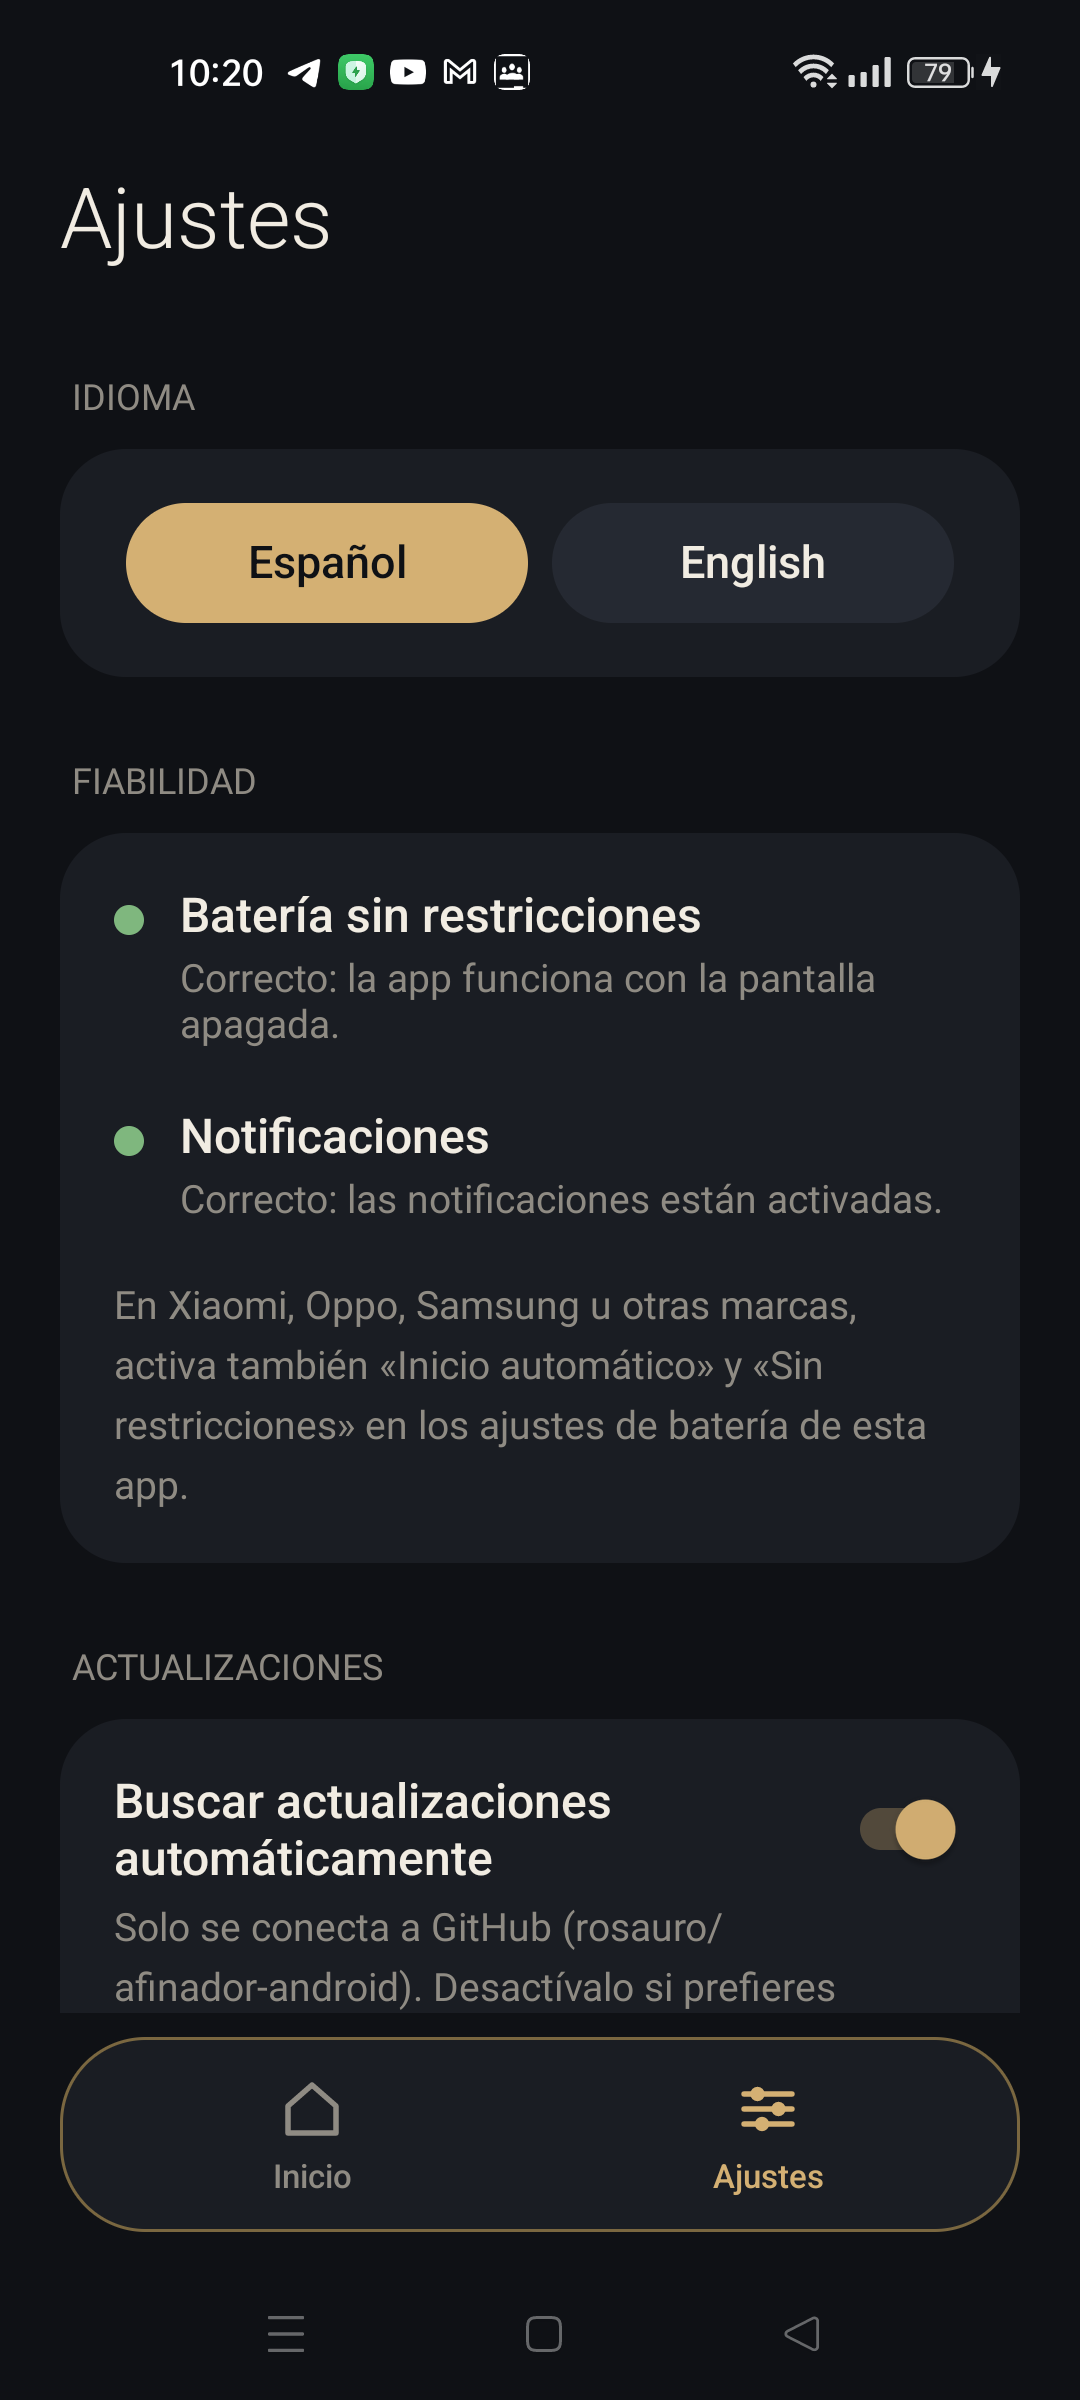
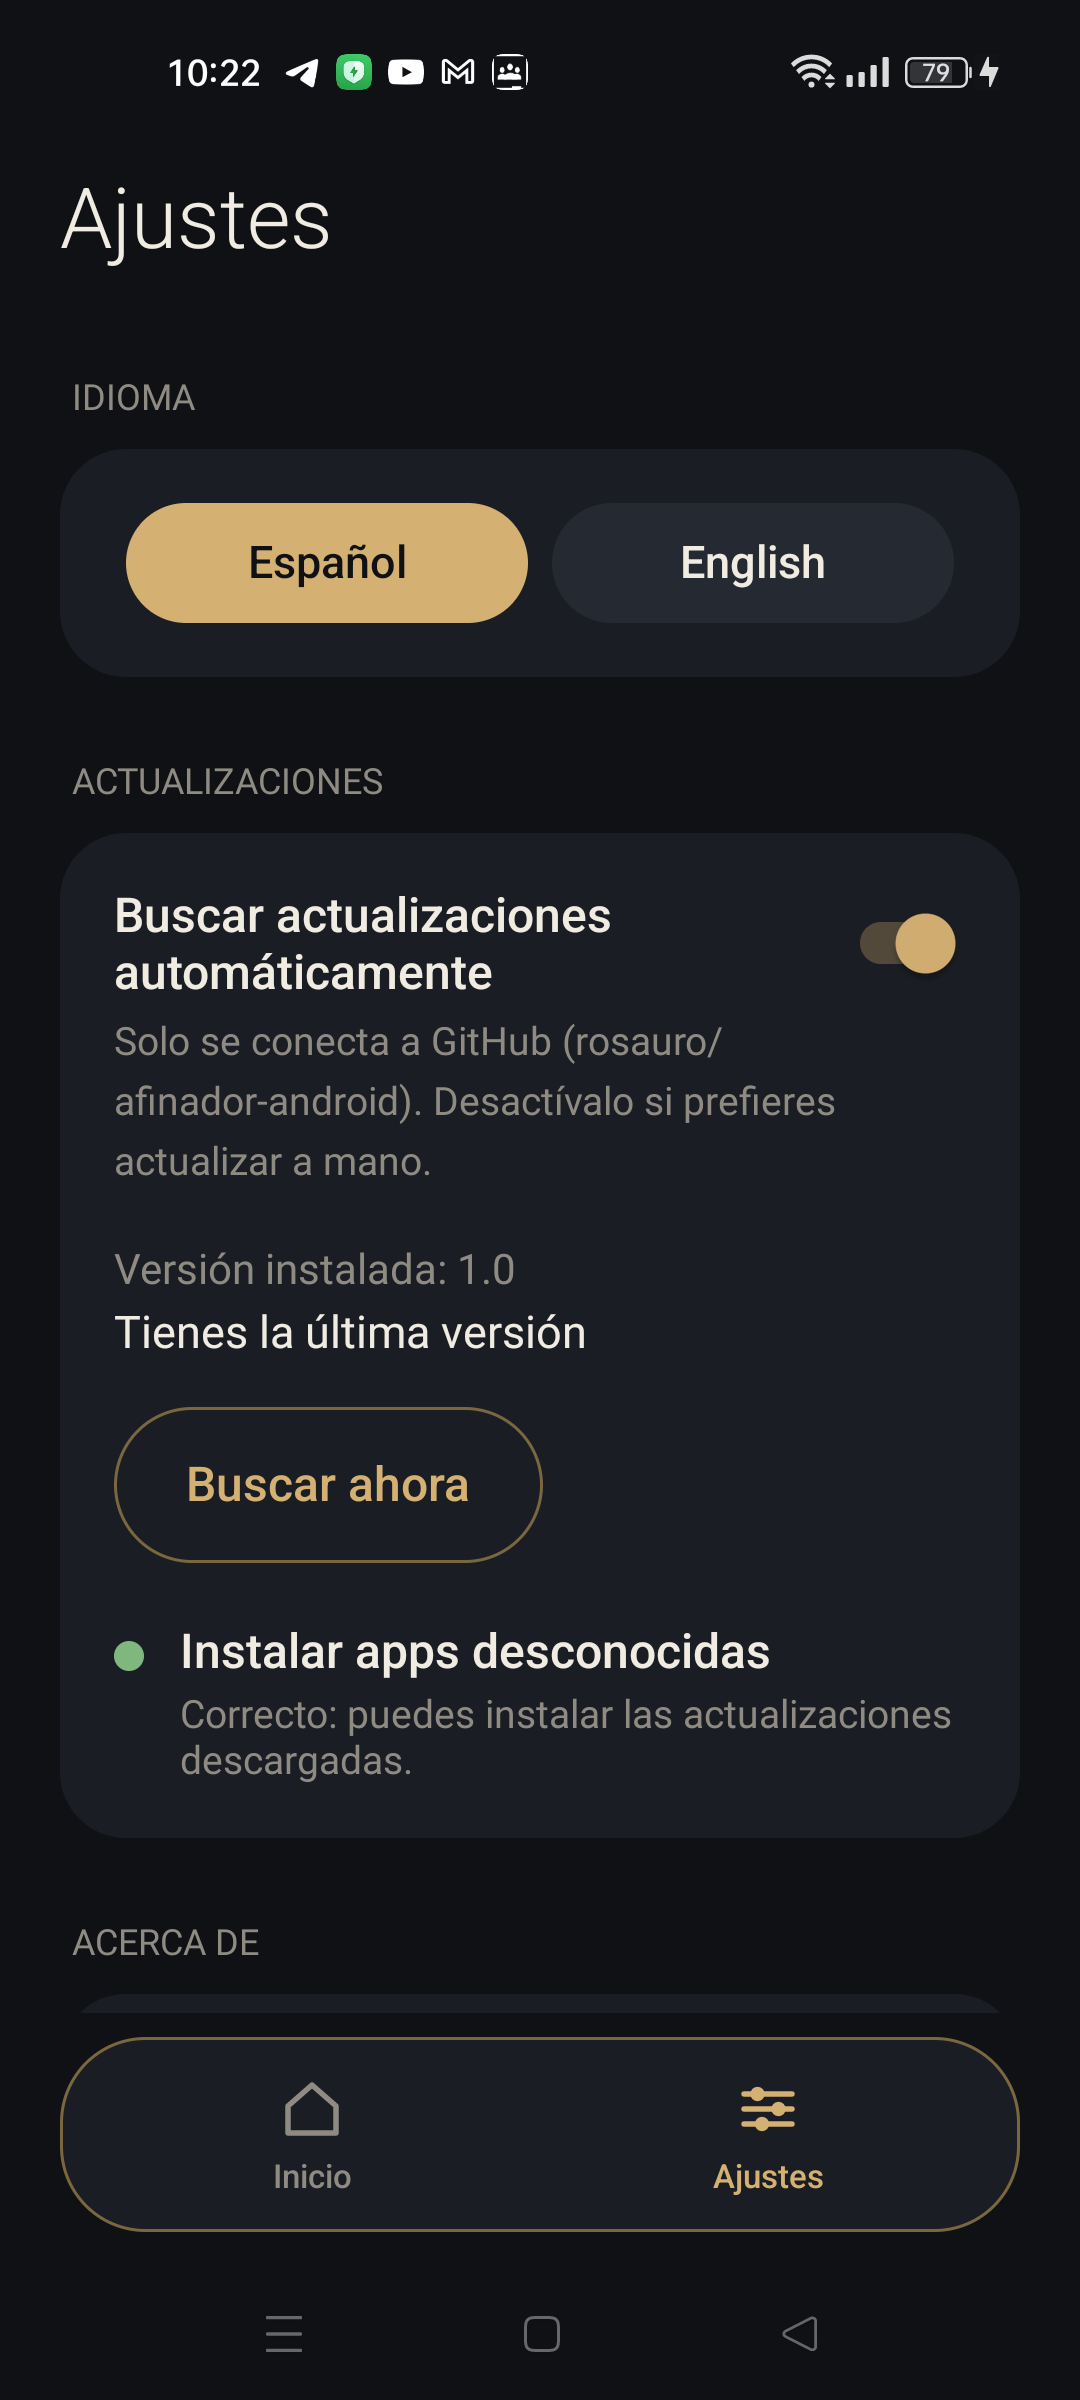
refactor: quita la tarjeta Fiabilidad (la app solo funciona en primer plano)

diff --git a/app/src/main/java/app/afinador/SettingsActivity.kt b/app/src/main/java/app/afinador/SettingsActivity.kt
@@ -1,13 +1,11 @@
 package app.afinador
 
 import android.app.Activity
-import android.app.NotificationManager
 import android.content.Context
 import android.content.Intent
 import android.content.res.ColorStateList
 import android.net.Uri
 import android.os.Bundle
-import android.os.PowerManager
 import android.view.Gravity
 import android.view.View
 import android.widget.LinearLayout
@@ -19,7 +17,6 @@ import android.widget.Toast
 class SettingsActivity : Activity() {
     private lateinit var settings: Settings
     private lateinit var langCard: LinearLayout
-    private lateinit var reliabilityCard: LinearLayout
     private lateinit var updatesCard: LinearLayout
     private var updateStatus: String? = null
 
@@ -37,7 +34,6 @@ class SettingsActivity : Activity() {
             root.addView(card, Ui.lp(c))
         }
         langCard = Ui.card(c); section(R.string.settings_section_language, langCard); renderLanguage()
-        reliabilityCard = Ui.card(c); section(R.string.settings_section_reliability, reliabilityCard)
         updatesCard = Ui.card(c); section(R.string.settings_section_updates, updatesCard)
 
         val version = runCatching { packageManager.getPackageInfo(packageName, 0).versionName }.getOrNull() ?: "?"
@@ -57,7 +53,6 @@ class SettingsActivity : Activity() {
     override fun onResume() {
         super.onResume()
         Updater.userInitiated = true
-        renderReliability()
         renderUpdates()
     }
 
@@ -77,26 +72,6 @@ class SettingsActivity : Activity() {
         langCard.addView(row, Ui.lp(c))
     }
 
-    private fun renderReliability() {
-        val c = this
-        reliabilityCard.removeAllViews()
-        val batteryOk = getSystemService(PowerManager::class.java).isIgnoringBatteryOptimizations(packageName)
-        reliabilityCard.addView(row(batteryOk, getString(R.string.settings_battery_title),
-            getString(if (batteryOk) R.string.settings_battery_ok else R.string.settings_battery_missing),
-            getString(R.string.settings_btn_allow)) {
-            launch(Intent(android.provider.Settings.ACTION_REQUEST_IGNORE_BATTERY_OPTIMIZATIONS, Uri.parse("package:$packageName")),
-                Intent(android.provider.Settings.ACTION_APPLICATION_DETAILS_SETTINGS, Uri.parse("package:$packageName")))
-        }, Ui.lp(c))
-        val notifOk = getSystemService(NotificationManager::class.java).areNotificationsEnabled()
-        reliabilityCard.addView(row(notifOk, getString(R.string.settings_notif_title),
-            getString(if (notifOk) R.string.settings_notif_ok else R.string.settings_notif_missing),
-            getString(R.string.settings_btn_allow)) {
-            startActivity(Intent(android.provider.Settings.ACTION_APP_NOTIFICATION_SETTINGS)
-                .putExtra(android.provider.Settings.EXTRA_APP_PACKAGE, packageName))
-        }, Ui.lp(c, t = 20))
-        reliabilityCard.addView(Ui.text(c, getString(R.string.settings_oem_note), 13f, Ui.MUTED)
-            .apply { setLineSpacing(0f, 1.3f) }, Ui.lp(c, t = 20))
-    }
 
     private fun renderUpdates() {
         val c = this
@@ -186,5 +161,4 @@ class SettingsActivity : Activity() {
         }
     }
 
-    private fun launch(primary: Intent, fallback: Intent) { try { startActivity(primary) } catch (e: Exception) { startActivity(fallback) } }
 }
